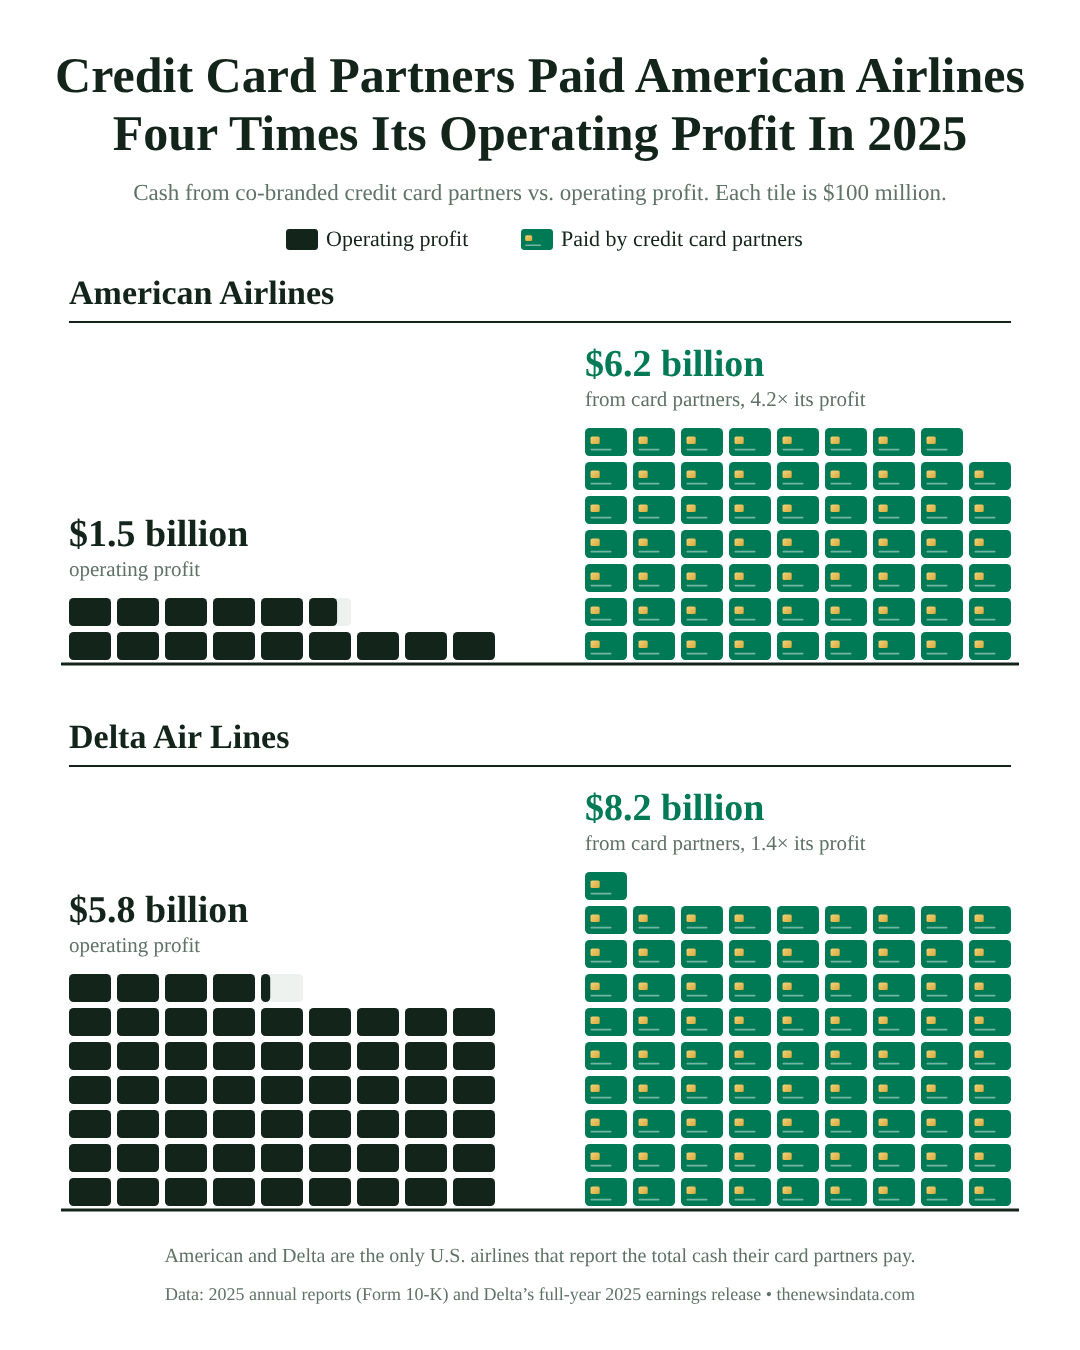
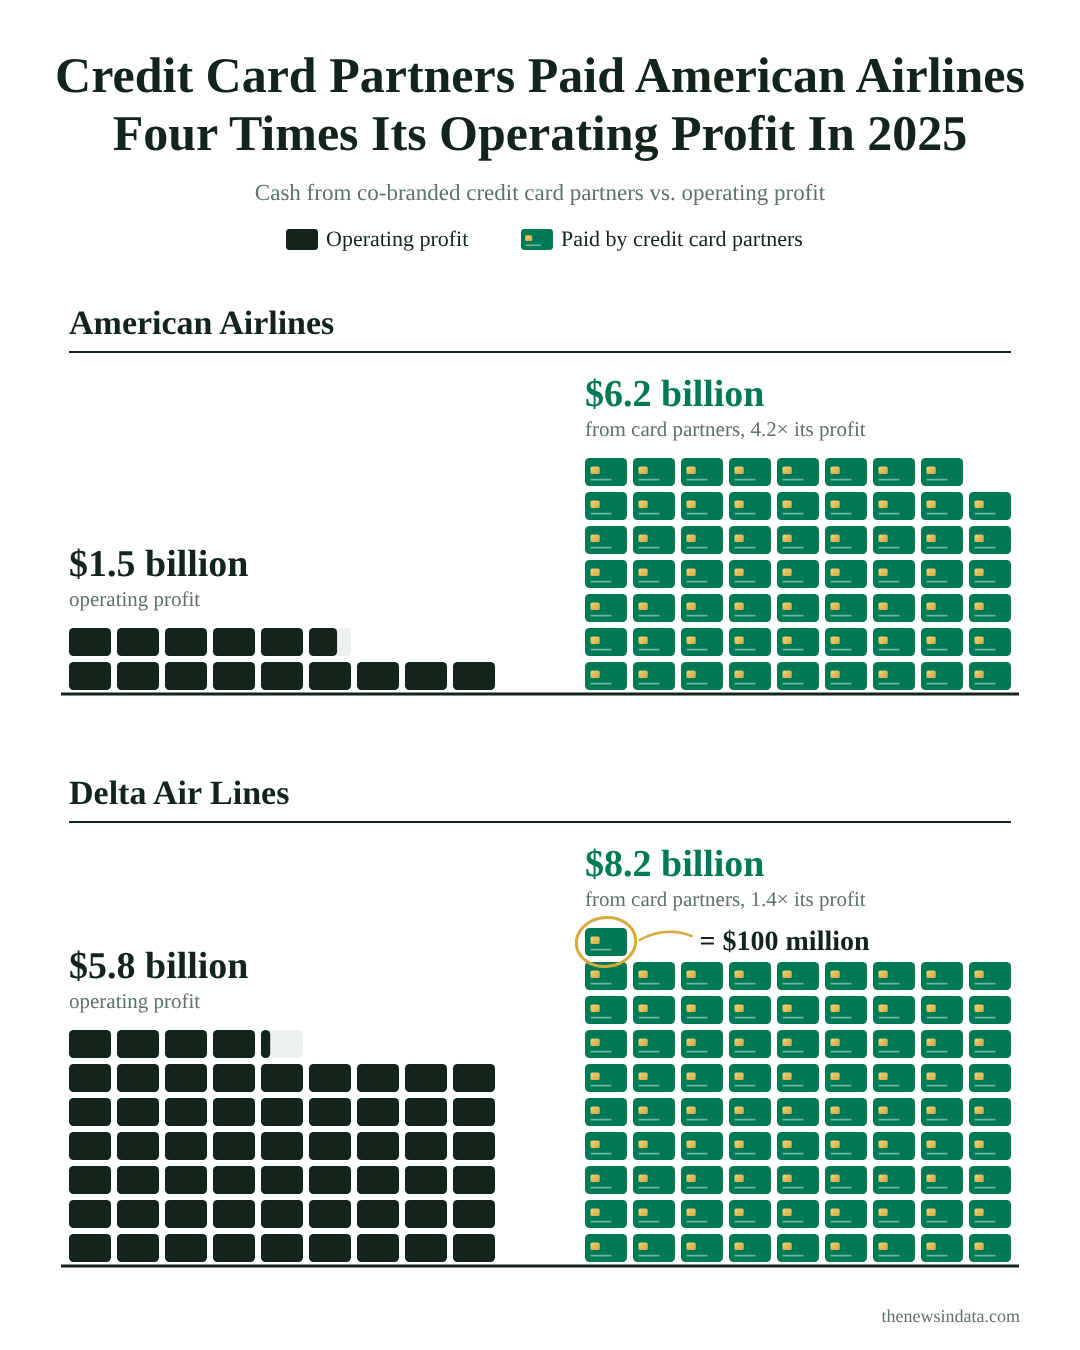
Airline lead chart: circled-card key, no data footer
Claude-Session: https://claude.ai/code/session_01DsVn62vh9YHra7AHGauuvq

diff --git a/air/post-body.html b/air/post-body.html
@@ -1,4 +1,4 @@
-<style>.nid-a h2{margin:1.6em 0 .5em}.nid-a .nid-fig{margin:1.6em auto;max-width:620px}.nid-a .nid-fig img{width:100%;height:auto;display:block;border:1px solid #e6e3dd;border-radius:6px}.nid-a .nid-photo{max-width:520px}.nid-a .nid-fig figcaption{font-size:.82em;color:#5f7268;margin-top:.5em;line-height:1.4}.nid-a .nid-method{font-size:.92em;margin-top:2em}</style><div class="nid-a"><figure class="nid-fig"><img src="https://stories.thenewsindata.com/air/air-waffle.png?v=2" alt="Square chart where each square is $100 million: American Airlines earned $1.5 billion in operating profit in 2025 and got $6.2 billion from credit card partners, 4.2 times as much. Delta earned $5.8 billion and got $8.2 billion from American Express, 1.4 times as much." width="1080" height="1350"><figcaption>Each square is $100 million. Free to share with credit to The News in Data.</figcaption></figure>
+<style>.nid-a h2{margin:1.6em 0 .5em}.nid-a .nid-fig{margin:1.6em auto;max-width:620px}.nid-a .nid-fig img{width:100%;height:auto;display:block;border:1px solid #e6e3dd;border-radius:6px}.nid-a .nid-photo{max-width:520px}.nid-a .nid-fig figcaption{font-size:.82em;color:#5f7268;margin-top:.5em;line-height:1.4}.nid-a .nid-method{font-size:.92em;margin-top:2em}</style><div class="nid-a"><figure class="nid-fig"><img src="https://stories.thenewsindata.com/air/air-waffle.png?v=3" alt="Square chart where each square is $100 million: American Airlines earned $1.5 billion in operating profit in 2025 and got $6.2 billion from credit card partners, 4.2 times as much. Delta earned $5.8 billion and got $8.2 billion from American Express, 1.4 times as much." width="1080" height="1350"><figcaption>Each square is $100 million. Free to share with credit to The News in Data.</figcaption></figure>
 <p>American Airlines received $6.2 billion in cash from its co-branded credit card and other partners in 2025, according to its annual report, 4.2 times its operating income of $1.47 billion. Delta Air Lines received $8.2 billion from American Express, 1.4 times its $5.82 billion operating income and equal to 12.9% of its revenue. Those are the only two U.S. airlines that report how much cash their card partners pay them each year.</p>
 <div class="ag" data-npc-after><p>Interactive: each square is $100 million. American earned $1.5 billion in operating profit in 2025, got $6.2 billion from card partners and owed members $10.6 billion in unspent miles. Delta earned $5.8 billion, got $8.2 billion and owed $9.3 billion.</p></div><script src="https://stories.thenewsindata.com/air/grid.js?v=2" defer></script>
 <figure class="nid-fig nid-photo"><img src="https://upload.wikimedia.org/wikipedia/commons/thumb/8/80/N822AN_American_Airlines_Boeing_787-9_Dreamliner_s-n_40642_%2837914578311%29.jpg/960px-N822AN_American_Airlines_Boeing_787-9_Dreamliner_s-n_40642_%2837914578311%29.jpg" alt="An American Airlines Boeing 787-9 on the ground" loading="lazy"><figcaption>An American Airlines Boeing 787-9. Citi became the only issuer of American’s AAdvantage credit cards in January 2026. Photo: <a href="https://commons.wikimedia.org/wiki/File:N822AN_American_Airlines_Boeing_787-9_Dreamliner_s-n_40642_(37914578311).jpg">Tomás Del Coro</a>, CC BY-SA 2.0.</figcaption></figure>

diff --git a/air/waffle-static.html b/air/waffle-static.html
@@ -47,13 +47,13 @@ if(size==='post'){
   out+=DEFS+'<rect width="'+W+'" height="'+H+'" fill="#fff"/>';
   out+=t(W/2,92,'Credit Card Partners Paid American Airlines',{fs:50,fw:700,a:'middle'});
   out+=t(W/2,150,'Four Times Its Operating Profit In 2025',{fs:50,fw:700,a:'middle'});
-  out+=t(W/2,200,'Cash from co-branded credit card partners vs. operating profit. Each tile is $100 million.',{fs:23,c:MUTE,a:'middle'});
+  out+=t(W/2,200,'Cash from co-branded credit card partners vs. operating profit',{fs:23,c:MUTE,a:'middle'});
   /* legend */
   var lx=W/2-250;
   out+=tile(lx-4,229,32,21,INK,false)+t(lx+36,246,'Operating profit',{fs:22});
   out+=tile(lx+231,229,32,21,G,true)+t(lx+271,246,'Paid by credit card partners',{fs:22});
   var cell=48,ch=34,gap=6,cols=9,bw=cols*cell-gap,left=(W-(2*bw+90))/2,right=left+bw+90;
-  var bases=[660,1206];
+  var bases=[690,1262];
   A.forEach(function(a,i){
     var base=bases[i];
     var p=block(left,base,a.profit,INK,cell,ch,gap,cols,false),c=block(right,base,a.card,G,cell,ch,gap,cols,true);
@@ -68,8 +68,12 @@ if(size==='post'){
     out+=p.svg+c.svg;
     out+='<line x1="'+(left-8)+'" x2="'+(right+bw+8)+'" y1="'+(base+4)+'" y2="'+(base+4)+'" stroke="'+INK+'" stroke-width="3"/>';
   });
-  out+=t(W/2,1262,'American and Delta are the only U.S. airlines that report the total cash their card partners pay.',{fs:20,c:MUTE,a:'middle'});
-  out+=t(W/2,1300,'Data: 2025 annual reports (Form 10-K) and Delta’s full-year 2025 earnings release  •  thenewsindata.com',{fs:18,c:MUTE,a:'middle'});
+  /* key: circle the lone card in Delta's top row and label it */
+  var kx=right+(cell-gap)/2,ky=bases[1]-Math.ceil(A[1].card/100/cols)*ch+gap+(ch-gap)/2;
+  out+='<ellipse cx="'+kx+'" cy="'+ky+'" rx="'+(cell*0.62)+'" ry="'+(ch*0.72)+'" fill="none" stroke="'+GOLD+'" stroke-width="3" transform="rotate(-6 '+kx+' '+ky+')"/>';
+  out+='<path d="M'+(kx+cell*0.7)+' '+(ky-2)+' q 26 -14 52 -4" fill="none" stroke="'+GOLD+'" stroke-width="2.5" stroke-linecap="round"/>';
+  out+=t(kx+cell*0.7+60,ky+8,'= $100 million',{fs:28,fw:700,c:INK});
+  out+=t(W-60,1322,'thenewsindata.com',{fs:18,c:MUTE,a:'end'});
 }else{
   var W=1200,H=630;svg.setAttribute('width',W);svg.setAttribute('height',H);svg.setAttribute('viewBox','0 0 '+W+' '+H);
   out+=DEFS+'<rect width="'+W+'" height="'+H+'" fill="#fff"/><rect width="'+W+'" height="10" fill="'+G+'"/>';
